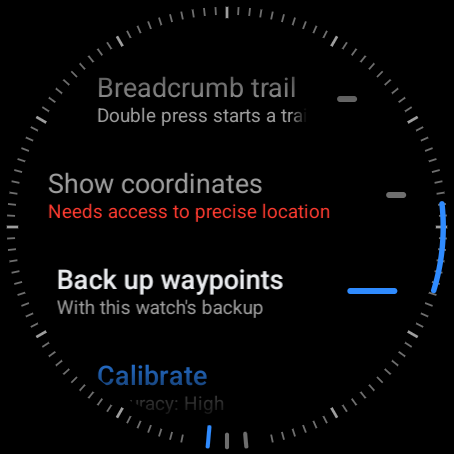
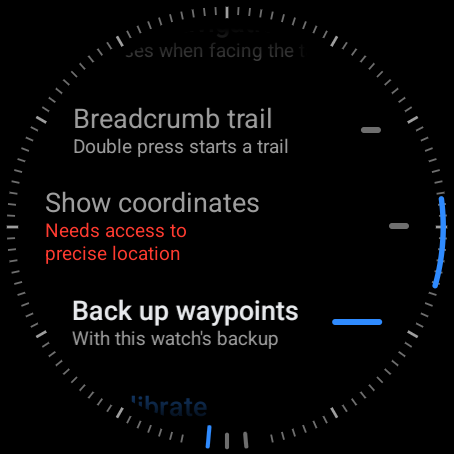
Show the precise-location message on two lines in the settings row, from the one source; bring the pane ticks only when the row of screens moves
The settings row and the logging status take the two lines from NEEDS_PRECISE_LOCATION.
A compass that was covered by a pushed screen and is shown again gets no pane ticks.
The route check for the compass in view uses pageViewUnder. The restart test waits for a
reading made after the restart and says what it does and does not show on an emulator.

Claude-Session: https://claude.ai/code/session_01Uph7YehLtr2NPXweYH2Zkf

diff --git a/app/src/androidTest/java/com/infinite8looper/compass/CompassViewModelTest.kt b/app/src/androidTest/java/com/infinite8looper/compass/CompassViewModelTest.kt
@@ -467,27 +467,34 @@ class CompassViewModelTest {
         assertEquals(accuracy, vm.lastAccuracy.value)
     }
 
-    @Test fun aRestartedSensorsReadingsKeepTheLastAccuracyAndField() = runBlocking {
+    /**
+     * The first reading that arrives after the sensor is stopped and started again has an accuracy and a field
+     * strength. The view model's flow first gives the reading from before the stop again, so that one is set aside
+     * and the test waits for the next, which a new sensor event has made.
+     *
+     * What this shows on an emulator: a restart loses neither value. It does not show that the view model's
+     * carry-over is what keeps them: on the API 35 emulator this test passed with the carry-over switched off as
+     * well, because there the first new reading already came with both values. The gap the carry-over closes
+     * (headings that arrive before the magnetometer's first event) is tested as a rule in NavigationTest
+     * (carriedOver) and would make this test fail on a device that has it.
+     */
+    @Test fun theFirstNewReadingAfterARestartHasAnAccuracyAndAFieldStrength() = runBlocking {
         val vm = viewModel()
         withContext(Dispatchers.Main) { vm.setHeadingWanted(true) }
         withTimeout(15_000) { vm.heading.first { it?.accuracy != null && it.fieldMicroTesla != null } }
         withContext(Dispatchers.Main) { vm.setHeadingWanted(false) }
         delay(3_500)
         assertFalse(headingSensorRegistered())
+        val beforeTheStop = vm.heading.value
+        assertNotNull(beforeTheStop)
 
-        // Every reading from the restart on: the first headings come before the magnetometer's first event, and
-        // without the carry-over they would have neither value.
-        val seen = CopyOnWriteArrayList<com.infinite8looper.compass.sensors.HeadingReading?>()
-        val collecting = launch { vm.heading.collect { seen += it } }
         withContext(Dispatchers.Main) { vm.setHeadingWanted(true) }
-        delay(2_000)
-        collecting.cancel()
+        // A reading that is not the one from before the stop: the flow holds one value and gives a new one only
+        // when it differs, so this is a reading the restarted sensor produced.
+        val fresh = withTimeout(20_000) { vm.heading.first { it != null && it != beforeTheStop } }!!
         assertTrue(headingSensorRegistered())
-        assertTrue(seen.isNotEmpty())
-        for (reading in seen) {
-            assertNotNull("a reading without an accuracy among ${seen.size}", reading?.accuracy)
-            assertNotNull("a reading without a field strength among ${seen.size}", reading?.fieldMicroTesla)
-        }
+        assertNotNull("the first new reading has no accuracy", fresh.accuracy)
+        assertNotNull("the first new reading has no field strength", fresh.fieldMicroTesla)
         withContext(Dispatchers.Main) { vm.setHeadingWanted(false) }
     }
 }

diff --git a/app/src/main/java/com/infinite8looper/compass/ui/SettingsScreen.kt b/app/src/main/java/com/infinite8looper/compass/ui/SettingsScreen.kt
@@ -35,6 +35,7 @@ import androidx.wear.compose.foundation.lazy.rememberScalingLazyListState
 import androidx.wear.compose.material3.Text
 import com.infinite8looper.compass.BuildConfig
 import com.infinite8looper.compass.CompassViewModel
+import com.infinite8looper.compass.nav.NEEDS_PRECISE_LOCATION
 import com.infinite8looper.compass.nav.NorthRef
 import com.infinite8looper.compass.nav.Pane
 import com.infinite8looper.compass.nav.PaneView
@@ -127,10 +128,14 @@ fun SettingsScreen(vm: CompassViewModel, paneView: () -> PaneView, onCalibrate: 
                     }
                 }
                 item(key = "coordinates") {
-                    // After a denial the row says so, in the color of a failure, where it otherwise says what it shows.
+                    // After a denial the row says so, in the color of a failure, where it otherwise says what it shows:
+                    // the same two lines as the logging status, since the sentence does not fit one line of a row
+                    // that is above or below the middle of the screen.
                     SwitchRow(
-                        "Show coordinates", if (needsAccess) "Needs access to precise location" else "GPS position on the compass",
+                        "Show coordinates",
+                        if (needsAccess) NEEDS_PRECISE_LOCATION.let { (first, second) -> "$first\n$second" } else "GPS position on the compass",
                         nav.showCoordinates, ready, styles, detailColor = if (needsAccess) ErrorColor else Dim,
+                        detailLines = if (needsAccess) 2 else 1,
                     ) { on ->
                         inView {
                             needsAccess = false
@@ -183,7 +188,7 @@ private class SettingsStyles(
 @Composable
 private fun SwitchRow(
     label: String, detail: String, on: Boolean, enabled: Boolean, styles: SettingsStyles,
-    detailColor: Color = Dim, onChange: (Boolean) -> Unit,
+    detailColor: Color = Dim, detailLines: Int = 1, onChange: (Boolean) -> Unit,
 ) {
     InstrumentRow(
         Modifier.toggleable(on, enabled = enabled, role = Role.Switch, onValueChange = onChange),
@@ -194,7 +199,7 @@ private fun SwitchRow(
                 label, color = if (on) Ink else Dim, style = if (on) styles.labelOn else styles.label,
                 maxLines = 1, overflow = TextOverflow.Ellipsis,
             )
-            Text(detail, color = detailColor, style = styles.detail, maxLines = 1, overflow = TextOverflow.Ellipsis)
+            Text(detail, color = detailColor, style = styles.detail, maxLines = detailLines, overflow = TextOverflow.Ellipsis)
         }
     }
 }

diff --git a/app/src/main/java/com/infinite8looper/compass/nav/Navigation.kt b/app/src/main/java/com/infinite8looper/compass/nav/Navigation.kt
@@ -258,6 +258,13 @@ sealed interface LogStatus {
     data class Failed(val reason: LogFailure) : LogStatus
 }
 
+/**
+ * What the app says where it cannot go on without the precise location permission: one sentence, "Needs access to
+ * precise location", broken where it is put on two lines. The logging status and the settings row both take it
+ * from here.
+ */
+val NEEDS_PRECISE_LOCATION: Pair<String, String> = "Needs access to" to "precise location"
+
 /** The two lines the compass shows for [status]: the status, and a smaller line under it where there is one. */
 fun statusText(status: LogStatus, units: Units): Pair<String, String?> = when (status) {
     LogStatus.Idle -> "" to null
@@ -267,7 +274,7 @@ fun statusText(status: LogStatus, units: Units): Pair<String, String?> = when (s
         LogFailure.NO_FIX -> "No GPS fix" to "Try again outdoors"
         LogFailure.LOCATION_OFF -> "Location is off" to null
         // One message, too long for a line of the status: the second line carries it on ([statusDetailContinues]).
-        LogFailure.NO_PERMISSION -> "Needs access to" to "precise location"
+        LogFailure.NO_PERMISSION -> NEEDS_PRECISE_LOCATION
         LogFailure.SAVE_FAILED -> "Couldn't save" to null
     }
 }

diff --git a/app/src/main/java/com/infinite8looper/compass/ui/CompassScreen.kt b/app/src/main/java/com/infinite8looper/compass/ui/CompassScreen.kt
@@ -201,11 +201,13 @@ fun CompassScreen(
 
     // The ticks that say which of the three screens this is show only around a swipe: from the moment the compass
     // starts to move until a little after it has come to rest. At rest the screen is the compass and nothing else.
+    // Only the row moving brings them: a compass that was hidden under a screen opened from a row and is shown
+    // again has not moved, and gets none.
     val paneTicks = remember { Animatable(0f) }
     LaunchedEffect(paneView) {
         // The compass opens at rest, so the first value changes nothing.
-        snapshotFlow { paneView() == PaneView.IN_VIEW }.collectLatest { atRest ->
-            if (!atRest) paneTicks.snapTo(1f)
+        snapshotFlow { paneView() == PaneView.PASSING }.collectLatest { moving ->
+            if (moving) paneTicks.snapTo(1f)
             else if (paneTicks.value > 0f) { delay(PANE_TICKS_LINGER_MS); paneTicks.animateTo(0f, tween(PANE_TICKS_FADE_MS)) }
         }
     }

diff --git a/app/src/test/java/com/infinite8looper/compass/nav/NavigationTest.kt b/app/src/test/java/com/infinite8looper/compass/nav/NavigationTest.kt
@@ -162,6 +162,11 @@ class NavigationTest {
         assertTrue(isInterference(0f)); assertTrue(isInterference(400f))
         assertFalse(isInterference(Float.NaN))
     }
+    @Test fun theWordsForMissingPreciseLocationAreInOnePlaceAndTheStatusUsesThem() {
+        assertEquals("Needs access to" to "precise location", NEEDS_PRECISE_LOCATION)
+        assertEquals(NEEDS_PRECISE_LOCATION, statusText(LogStatus.Failed(LogFailure.NO_PERMISSION), Units.METRIC))
+        assertEquals(NEEDS_PRECISE_LOCATION, statusText(LogStatus.Failed(LogFailure.NO_PERMISSION), Units.IMPERIAL))
+    }
     @Test fun theSecondLineCarriesOnTheFirstOnlyForTheMessageThatIsBrokenInTwo() {
         // The owner's words, whole, on two lines.
         val (first, second) = statusText(LogStatus.Failed(LogFailure.NO_PERMISSION), Units.METRIC)

diff --git a/app/src/main/java/com/infinite8looper/compass/ui/CompassApp.kt b/app/src/main/java/com/infinite8looper/compass/ui/CompassApp.kt
@@ -67,8 +67,10 @@ fun CompassApp() {
     val compassInView = remember(panes) {
         derivedStateOf {
             val page = panes.currentPage
-            route?.destination?.route == PANES_ROUTE && paneOf(page) == Pane.COMPASS &&
-                pageView(page, page, panes.currentPageOffsetFraction, panes.targetPage, panes.isScrollInProgress) == PaneView.IN_VIEW
+            paneOf(page) == Pane.COMPASS && pageViewUnder(
+                topScreen(route?.destination?.route),
+                pageView(page, page, panes.currentPageOffsetFraction, panes.targetPage, panes.isScrollInProgress),
+            ) == PaneView.IN_VIEW
         }
     }
     KeepAwake(vm, compassInView = { compassInView.value })

diff --git a/docs/superpowers/specs/2026-10-11-wear-compass-v2-redesign.md b/docs/superpowers/specs/2026-10-11-wear-compass-v2-redesign.md
@@ -38,7 +38,7 @@ Earlier requests that this redesign must carry forward:
 - "North should also be drawn in a themed color".
 - 2026-10-12: "Back swipe should go to settings. Pressing the non-crown button should log a waypoint. Pressing the crown exits." As built: system Back on one of the three screens turns one screen toward settings, as a right swipe does (compass to settings, settings to waypoints, waypoints to the compass), and never closes the app. The side button logs a waypoint on the compass and on the waypoints screen. The crown's press, which is the system's, is the only way out of the app.
 
-- 2026-10-12: "1. "Needs location access" --> "Needs access to precise location" 2. pause compass when not on the compass screen 3. what's the interference issue? take screenshots and point it out" and then "when strong magnet is nearby, change ring to red as suggested". As built: the words are `Needs access to precise location` wherever the app says it, on two lines (`Needs access to`, `precise location`) in the logging status and on one line in the settings; the heading sensor runs only while the compass is on screen or calibration is open; on calibration the whole frame is filled in the error color while interference is detected.
+- 2026-10-12: "1. "Needs location access" --> "Needs access to precise location" 2. pause compass when not on the compass screen 3. what's the interference issue? take screenshots and point it out" and then "when strong magnet is nearby, change ring to red as suggested". As built: the words are `Needs access to precise location` wherever the app says it, on two lines (`Needs access to`, `precise location`) in the logging status and under `Show coordinates` in the settings; the heading sensor runs only while the compass is on screen or calibration is open; on calibration the whole frame is filled in the error color while interference is detected.
 
 ## Decisions made in the mockups and approved with them
 
@@ -185,12 +185,12 @@ The logging screen; the separate color screen; the delete confirmation dialog; t
 
 - While the logging status has a second line, that line takes the place of the words `Hold flat` or `Calibrate`, and the calibrate prompt's tap area goes with its word. The hold-flat drawing keeps looping, and the words return when the status clears.
 - A press while a result is waiting or showing starts a new save.
-- A status line that does not fit its slot at full size is drawn smaller, down to three quarters, before it is cut short. `Needs access to precise location` is too long for one line of the status at three quarters, so it is on the status's two lines, `Needs access to` over `precise location`, both in the error color: the first at the size of any status and the second at the size of the smaller line. Both are whole on both screen sizes, on the compass and on the waypoints screen's band, whose height (0.58 of the radius, the same as for `No GPS fix` with its second line) and place are unchanged: over a list with rows it covers the header, a drag that starts on it scrolls the list, and it stays where it is. In the settings the words are on one line under `Show coordinates`. That line is whole when the row is in the middle of the screen; in a row above or below the middle, where the row's ends come in, its last letters fade out before the tick (`Needs access to precise lo` on the small screen, `Needs access to precise locat` on the large one, with the row one place below the middle, which is where it stands after the dialog is refused).
+- A status line that does not fit its slot at full size is drawn smaller, down to three quarters, before it is cut short. `Needs access to precise location` is too long for one line of the status at three quarters, so it is on the status's two lines, `Needs access to` over `precise location`, both in the error color: the first at the size of any status and the second at the size of the smaller line. Both are whole on both screen sizes, on the compass and on the waypoints screen's band, whose height (0.58 of the radius, the same as for `No GPS fix` with its second line) and place are unchanged: over a list with rows it covers the header, a drag that starts on it scrolls the list, and it stays where it is. In the settings the same two lines stand under `Show coordinates`, in the error color at the size of a row's smaller line; they are whole with the row in the middle of the screen, a quarter of the screen above it and a quarter below, on both screen sizes. The row is taller by that line while it shows, and the rows around it keep their places in the list.
 - The save continues when the wearer moves to another screen. A result is shown for about two seconds for a save and about three for a failure, on the compass or on the waypoints screen, and that time counts only while one of those two is at rest in view. A result that arrives while neither is waits, and is shown for its full time on whichever of the two is in view next; a showing that is cut short starts again there. The confirming tap is given once.
 - The screen stays on while a save is in progress, with or without targets.
 - The confirming tap is given once, when the saved result is first shown.
 - The first press asks for precise and approximate location together. If only approximate location is granted, nothing is saved, the compass shows `Needs access to precise location`, and the next press asks again.
-- `Log here` on the waypoints screen starts the same save and stays on the waypoints screen. While a save is in progress or its result is showing, the status stands at the top of the waypoints screen, over the list and not part of it, so it is there wherever the list is scrolled to: the same words in the same colors as on the compass, with the second line small and dim under them, on a black band that covers the rows passing under it. This holds for a save started from either screen. A touch that goes down on the band is not a tap or a long press on the row under it, and a drag that starts on the band still scrolls the list. The header keeps showing the count, and takes no tap while a status shows.
+- `Log here` on the waypoints screen starts the same save and stays on the waypoints screen. While a save is in progress or its result is showing, the status stands at the top of the waypoints screen, over the list and not part of it, so it is there wherever the list is scrolled to: the same words in the same colors as on the compass, with the second line small under them (dim when it is a note such as the accuracy or `Try again outdoors`, and in the error color when it is the second half of `Needs access to precise location`), on a black band that covers the rows passing under it. This holds for a save started from either screen. A touch that goes down on the band is not a tap or a long press on the row under it, and a drag that starts on the band still scrolls the list. The header keeps showing the count, and takes no tap while a status shows.
 - The three screens: an app that is started afresh opens on the compass. An app that was left with the crown and is still running comes back on the screen it was left on.
 - Back, on a watch that has it, turns one screen toward settings from each of the three screens and never leaves the app. Backs made close together each turn one screen.
 - A screen opened from a row comes back to the screen it was opened from. If the system has stopped the app in the meantime and restores that screen, going back from it shows the compass.
@@ -222,7 +222,7 @@ The logging screen; the separate color screen; the delete confirmation dialog; t
 - `Calibrate` is in the accent color with `Accuracy:` and the level (`High`, `Medium`, `Low`, `Unreliable`) under it. That line shows the level the magnetometer last reported while the compass or calibration had the heading sensor running, and is empty until there has been one. The settings screen does not run the sensor.
 - The rows of the settings screen reach the ring their ends follow, 10 dp further out on each side than the rows of the waypoints screen. A row in the middle of the screen shows both its lines whole on both screen sizes. In a row above or below the middle, where the ends come in, a line that would reach the tick fades out before it.
 - A tap on the settings screen acts only while that screen is at rest in view, and no switch takes a tap until the stored settings have been read. A side button does nothing there.
-- Turning on `Show coordinates` without the location permission asks for precise and approximate location together, as the first save does. If precise location is not granted the switch stays off and the row's smaller line reads `Needs access to precise location` in the error color until the row is tapped again; if it is granted the switch turns on with no second tap.
+- Turning on `Show coordinates` without the location permission asks for precise and approximate location together, as the first save does. If precise location is not granted the switch stays off and the row's smaller line reads `Needs access to precise location` on two lines in the error color until the row is tapped again; if it is granted the switch turns on with no second tap.
 - Blind navigation and Breadcrumb trail are stored with the other switches in the settings file. Where nothing is stored for them (a fresh install, an install updated from a build without them, a settings file that was found damaged and reset, a settings file that cannot be read) Blind navigation reads on and Breadcrumb trail reads off. Until the two features are built, the switches store their value and nothing else reads it.
 - The calibration screen has, from the top: `Move your wrist in a figure 8`, the figure 8 with a dot in ink going round it, the accuracy level as the large word in ink (`Unknown` until the magnetometer has reported one), and `Field:` with the field strength in whole microtesla under it. The frame's fill is the confirming green, starts at 12 o'clock, runs clockwise and takes about 0.4 seconds to move to a new level. A level other than the four the sensor defines fills nothing.
 - The interference warning reads `Magnetic interference nearby. Move away from chargers, magnets and steel.` in the error color, in its own place under the field strength, and shows while the field is below 25 or above 65 microtesla. Nothing else on the screen moves when it comes or goes. While it shows, the whole frame is filled in the error color in place of the green, whatever the accuracy level, `Unreliable` and `Unknown` included; the accuracy word and the field line stay as they are, and when the warning goes the frame is again as full, in green, as the accuracy alone makes it. The emulators report only `High`, so the other levels are shown by unit tests of the rule (`calibrationRing`) and were not seen on a screen.
@@ -231,7 +231,7 @@ The logging screen; the separate color screen; the delete confirmation dialog; t
 - The heading sensor (the rotation vector, with the magnetometer for accuracy and field strength) runs while the app is on screen and either the compass is on screen (at rest in view, or passing during a swipe) or calibration is open. It does not run on the settings, waypoints or edit screens. It stops two seconds after it is no longer wanted, so going from the compass to calibration does not stop and start it. This is one decision (`headingWanted` in `nav/Panes.kt`), made above all the screens.
 - The sensor runs while the compass is passing during a swipe as well as when it is at rest in view: the dial is visible then and is drawn live.
 - Across a stop and a start of the sensor the accuracy level and the field strength shown are the last the magnetometer reported, until its first report after the start replaces them; a restarted sensor's first headings come before that report. Calibration therefore opens on the level it last showed, with no `Unknown` between, and interference left over from before a stop lasts no longer than the first new field strength.
-- Under a screen opened from a row (edit, calibration) every one of the three screens is hidden in the sense used above: it takes no button, runs no frame loop, gives no tap and counts no time. Up to API level 35 the navigation library draws the three screens behind such a screen while it is dragged aside, as a picture; above it, nothing is drawn behind but black until the screen has left, and the three screens are built again only then.
+- Under a screen opened from a row (edit, calibration) every one of the three screens is hidden in the sense used above: it takes no button, runs no frame loop, gives no tap and counts no time. Up to API level 35 the navigation library draws the three screens behind such a screen while it is dragged aside, as a picture; above it, nothing is drawn behind but black until the screen has left, and the three screens are built again only then. The picture drawn behind on those levels is of screens built at that moment and not yet running: a compass there shows `--` and a dial with north at the top until the screen above has left. The three ticks that show which screen is in view appear on the compass only when the row of screens has moved, not when a screen that covered the compass leaves.
 
 ### Colors from the watch, as built
 

diff --git a/docs/superpowers/plans/2026-10-11-wear-compass-v2.md b/docs/superpowers/plans/2026-10-11-wear-compass-v2.md
@@ -20,7 +20,7 @@
 - Pure decisions first: anything that can be decided from numbers, times or lists is a pure function in `nav/` with unit tests written first and seen failing.
 - The manifest requests only the two location permissions. No `VIBRATE`, no network.
 - No log statement writes coordinates, names or setting values.
-- Fixed strings, verbatim: `Arrived at target`, `MAG`, `No target`, `Hold flat`, `Waypoint N`, `Saving…`, `Saved Waypoint N`, `No GPS fix`, `Location is off`, `Needs access to precise location` (on two lines in the logging status: `Needs access to`, `precise location`), `Couldn't save`, `Log here`, `Hold to delete`, `Trail`, `Trail complete`, and the settings labels `True north`, `Feet and miles`, `Tick feedback`, `Blind navigation`, `Breadcrumb trail`, `Show coordinates`, `Back up waypoints`, `Calibrate`.
+- Fixed strings, verbatim: `Arrived at target`, `MAG`, `No target`, `Hold flat`, `Waypoint N`, `Saving…`, `Saved Waypoint N`, `No GPS fix`, `Location is off`, `Needs access to precise location` (on two lines wherever it is shown: `Needs access to`, `precise location`), `Couldn't save`, `Log here`, `Hold to delete`, `Trail`, `Trail complete`, and the settings labels `True north`, `Feet and miles`, `Tick feedback`, `Blind navigation`, `Breadcrumb trail`, `Show coordinates`, `Back up waypoints`, `Calibrate`.
 - Colors: ink `#E8EAED`, accent blue `#2F8BFF`, red `#FF3B30`, waypoint color `Color.hsv(hue, 0.65f, 1f)`, soft tint for a non-focused target `Color.hsv(hue, 0.22f, 0.92f)` at 60 percent alpha (tune by eye against the review page's "Soft tint" mockup and report the final values). Red is only north, failures and deleting; the `Hold flat` and `Calibrate` prompts are light gray. The accent is only the pointer and things that are on or actionable; every screen takes it from one named place so Task 11 can make it follow the watch.
 - Smoothness: nothing may make the compass screen recompose per sensor event or per animation frame; animated values are read in the layout or draw phase. Show it with a temporary counter, removed before commit.
 - Every tappable thing has a hit area of at least 48 dp. Everything fits both round emulator sizes (`Wear_OS_Large_Round`, `Wear_OS_Small_Round`).

diff --git a/docs/superpowers/specs/2026-10-11-wear-compass-design.md b/docs/superpowers/specs/2026-10-11-wear-compass-design.md
@@ -135,7 +135,7 @@ The compass screen also shows a small prompt that leads here when the reported a
 - North: true or magnetic.
 - Units: metric or imperial, defaulting from the watch's locale.
 - Tick feedback (default on): a faint vibration as the heading crosses the dial's minor tick marks.
-- Show coordinates (default off): shows the current GPS position on the compass screen. Turning it on asks for location access with the system dialog if it has not been granted; if the wearer denies it, the switch stays off and a line under it says "Needs access to precise location". If access is already granted it turns on without asking, and turning it off never asks for anything.
+- Show coordinates (default off): shows the current GPS position on the compass screen. Turning it on asks for location access with the system dialog if it has not been granted; if the wearer denies it, the switch stays off and two lines under it say "Needs access to precise location". If access is already granted it turns on without asking, and turning it off never asks for anything.
 - Back up waypoints (default on): includes the saved waypoints and settings in the watch's system backup (when the watch can encrypt it) and in device-to-device transfer. See "Backup and transfer" under Behavior for what turning it off does and does not do.
 - Calibrate.
 - About: version and the MIT license.
